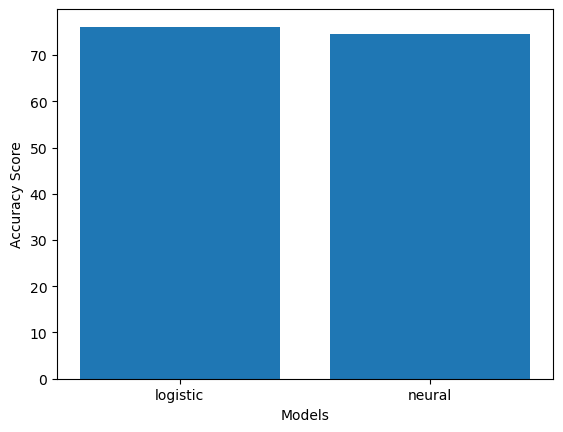
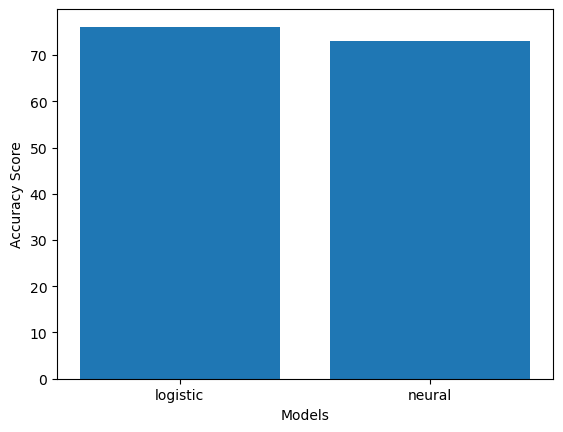
ga

Changed region(s): [[0.5737, 0.0602, 0.9361, 0.1204]]

diff --git a/docs/e2e.html b/docs/e2e.html
@@ -395,7 +395,7 @@ In this chapter:
 <span id="cb10-6"><a href="#cb10-6" aria-hidden="true" tabindex="-1"></a>Y_pred_train <span class="op">=</span> <span class="fu">predict</span>(simpleneuralnetwork,X_train);</span>
 <span id="cb10-7"><a href="#cb10-7" aria-hidden="true" tabindex="-1"></a><span class="fu">print</span>(<span class="fu">accuracy_score</span>(Y_train,Y_pred_train))</span></code><button title="Copy to Clipboard" class="code-copy-button"><i class="bi"></i></button></pre></div>
 <div class="cell-output cell-output-stdout">
-<pre><code>0.690566037735849</code></pre>
+<pre><code>0.5811320754716981</code></pre>
 </div>
 </div>
 </section>
@@ -449,13 +449,13 @@ In this chapter:
 <span id="cb16-8"><a href="#cb16-8" aria-hidden="true" tabindex="-1"></a><span class="fu">hcat</span>(<span class="fu">DataFrame</span>(gridsearch_neuralnet_results.parameters),</span>
 <span id="cb16-9"><a href="#cb16-9" aria-hidden="true" tabindex="-1"></a>    gridsearch_neuralnet_results)[!,<span class="fu">Not</span>(<span class="op">:</span>parameters)]</span></code><button title="Copy to Clipboard" class="code-copy-button"><i class="bi"></i></button></pre></div>
 <div class="cell-output cell-output-display" data-execution_count="13">
-<div class="data-frame"><p>15 rows × 4 columns</p><table class="data-frame table table-sm table-striped"><thead><tr><th></th><th>solver</th><th>hidden_layer_sizes</th><th>mean_validation_score</th><th>cv_validation_scores</th></tr><tr><th></th><th title="String">String</th><th title="Any">Any</th><th title="Float64">Float64</th><th title="Vector{Float64}">Array…</th></tr></thead><tbody><tr><th>1</th><td>sgd</td><td>2</td><td>0.437736</td><td>[0.314607, 0.693182, 0.306818]</td></tr><tr><th>2</th><td>lbfgs</td><td>2</td><td>0.690566</td><td>[0.685393, 0.693182, 0.693182]</td></tr><tr><th>3</th><td>adam</td><td>2</td><td>0.475472</td><td>[0.426966, 0.409091, 0.590909]</td></tr><tr><th>4</th><td>sgd</td><td>20</td><td>0.649057</td><td>[0.707865, 0.693182, 0.545455]</td></tr><tr><th>5</th><td>lbfgs</td><td>20</td><td>0.698113</td><td>[0.674157, 0.670455, 0.75]</td></tr><tr><th>6</th><td>adam</td><td>20</td><td>0.641509</td><td>[0.629213, 0.727273, 0.568182]</td></tr><tr><th>7</th><td>sgd</td><td>(1, 5, 10)</td><td>0.683019</td><td>[0.662921, 0.693182, 0.693182]</td></tr><tr><th>8</th><td>lbfgs</td><td>(1, 5, 10)</td><td>0.690566</td><td>[0.685393, 0.693182, 0.693182]</td></tr><tr><th>9</th><td>adam</td><td>(1, 5, 10)</td><td>0.690566</td><td>[0.685393, 0.693182, 0.693182]</td></tr><tr><th>10</th><td>sgd</td><td>(10, 10)</td><td>0.641509</td><td>[0.539326, 0.693182, 0.693182]</td></tr><tr><th>11</th><td>lbfgs</td><td>(10, 10)</td><td>0.743396</td><td>[0.719101, 0.704545, 0.806818]</td></tr><tr><th>12</th><td>adam</td><td>(10, 10)</td><td>0.65283</td><td>[0.685393, 0.579545, 0.693182]</td></tr><tr><th>13</th><td>sgd</td><td>(10, 20, 10)</td><td>0.720755</td><td>[0.674157, 0.75, 0.738636]</td></tr><tr><th>14</th><td>lbfgs</td><td>(10, 20, 10)</td><td>0.679245</td><td>[0.730337, 0.602273, 0.704545]</td></tr><tr><th>15</th><td>adam</td><td>(10, 20, 10)</td><td>0.671698</td><td>[0.696629, 0.647727, 0.670455]</td></tr></tbody></table></div>
+<div class="data-frame"><p>15 rows × 4 columns</p><table class="data-frame table table-sm table-striped"><thead><tr><th></th><th>solver</th><th>hidden_layer_sizes</th><th>mean_validation_score</th><th>cv_validation_scores</th></tr><tr><th></th><th title="String">String</th><th title="Any">Any</th><th title="Float64">Float64</th><th title="Vector{Float64}">Array…</th></tr></thead><tbody><tr><th>1</th><td>sgd</td><td>2</td><td>0.69434</td><td>[0.685393, 0.693182, 0.704545]</td></tr><tr><th>2</th><td>lbfgs</td><td>2</td><td>0.728302</td><td>[0.685393, 0.693182, 0.806818]</td></tr><tr><th>3</th><td>adam</td><td>2</td><td>0.65283</td><td>[0.696629, 0.693182, 0.568182]</td></tr><tr><th>4</th><td>sgd</td><td>20</td><td>0.724528</td><td>[0.674157, 0.727273, 0.772727]</td></tr><tr><th>5</th><td>lbfgs</td><td>20</td><td>0.720755</td><td>[0.685393, 0.715909, 0.761364]</td></tr><tr><th>6</th><td>adam</td><td>20</td><td>0.656604</td><td>[0.539326, 0.738636, 0.693182]</td></tr><tr><th>7</th><td>sgd</td><td>(1, 5, 10)</td><td>0.690566</td><td>[0.685393, 0.693182, 0.693182]</td></tr><tr><th>8</th><td>lbfgs</td><td>(1, 5, 10)</td><td>0.735849</td><td>[0.685393, 0.829545, 0.693182]</td></tr><tr><th>9</th><td>adam</td><td>(1, 5, 10)</td><td>0.588679</td><td>[0.685393, 0.306818, 0.772727]</td></tr><tr><th>10</th><td>sgd</td><td>(10, 10)</td><td>0.683019</td><td>[0.674157, 0.681818, 0.693182]</td></tr><tr><th>11</th><td>lbfgs</td><td>(10, 10)</td><td>0.720755</td><td>[0.764045, 0.693182, 0.704545]</td></tr><tr><th>12</th><td>adam</td><td>(10, 10)</td><td>0.69434</td><td>[0.674157, 0.670455, 0.738636]</td></tr><tr><th>13</th><td>sgd</td><td>(10, 20, 10)</td><td>0.716981</td><td>[0.730337, 0.727273, 0.693182]</td></tr><tr><th>14</th><td>lbfgs</td><td>(10, 20, 10)</td><td>0.758491</td><td>[0.685393, 0.795455, 0.795455]</td></tr><tr><th>15</th><td>adam</td><td>(10, 20, 10)</td><td>0.701887</td><td>[0.719101, 0.693182, 0.693182]</td></tr></tbody></table></div>
 </div>
 </div>
 <div class="cell" data-execution_count="15">
 <div class="sourceCode cell-code" id="cb17"><pre class="sourceCode julia code-with-copy"><code class="sourceCode julia"><span id="cb17-1"><a href="#cb17-1" aria-hidden="true" tabindex="-1"></a>best_neuralnetwork_model <span class="op">=</span> gridsearch_neuralnet.best_estimator_</span></code><button title="Copy to Clipboard" class="code-copy-button"><i class="bi"></i></button></pre></div>
 <div class="cell-output cell-output-display" data-execution_count="14">
-<pre><code>PyObject MLPClassifier(hidden_layer_sizes=(10, 10), solver='lbfgs')</code></pre>
+<pre><code>PyObject MLPClassifier(hidden_layer_sizes=(10, 20, 10), solver='lbfgs')</code></pre>
 </div>
 </div>
 </section>

diff --git a/docs/index.html b/docs/index.html
@@ -158,15 +158,6 @@ ul.task-list{list-style: none;}
 
 </header>
 
-<!-- Global site tag (gtag.js) - Google Analytics -->
-<script async="" src="https://www.googletagmanager.com/gtag/js?id=G-Y5C915Y3DF"></script>
-<script>
-  window.dataLayer = window.dataLayer || [];
-  function gtag(){dataLayer.push(arguments);}
-  gtag('js', new Date());
-
-  gtag('config', 'G-Y5C915Y3DF');
-</script>
 <section id="preface" class="level1 unnumbered">
 <h1 class="unnumbered">Preface</h1>
 <p><em>Introduction to Julia Machine Learning with Scikit-Learn</em> is an open access book aimed at undergraduate students in non-CS majors who are taking their first course in machine learning. The book assumes very little to no prior knowledge of programming. It is designed in such a way that the book helps the students to get to speed developing machine learning models in the shortest time without diluting the fundamental concepts in ML. Although the book provides some introduction on the basics of setting up a project in Julia, it is no definitive guide to either programming or Julia Language.</p>
